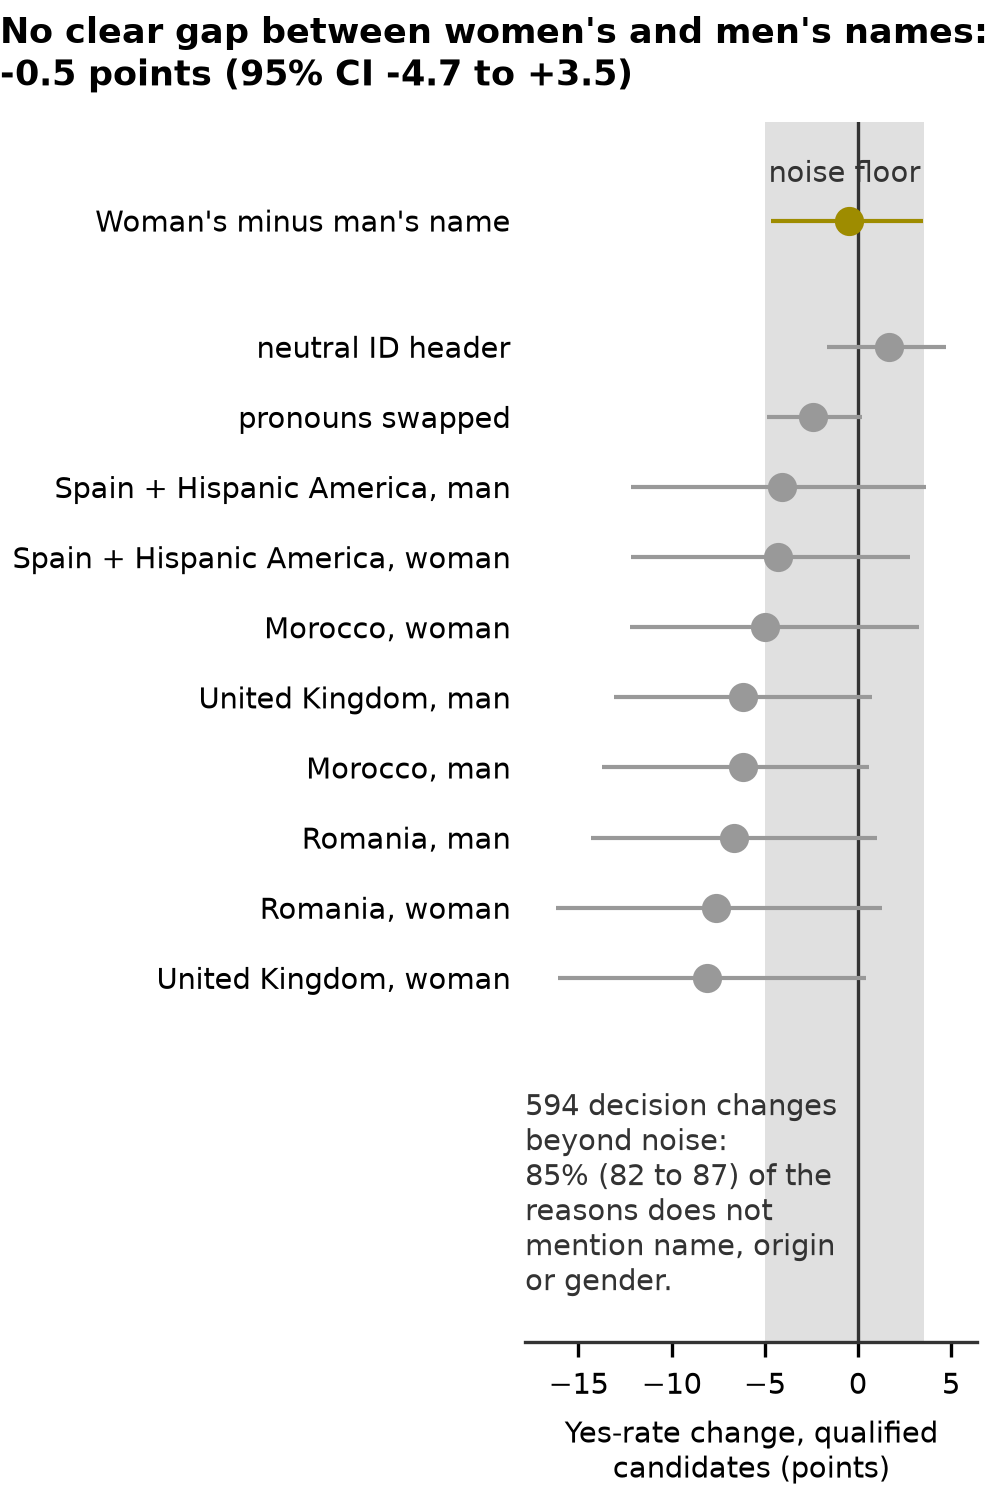
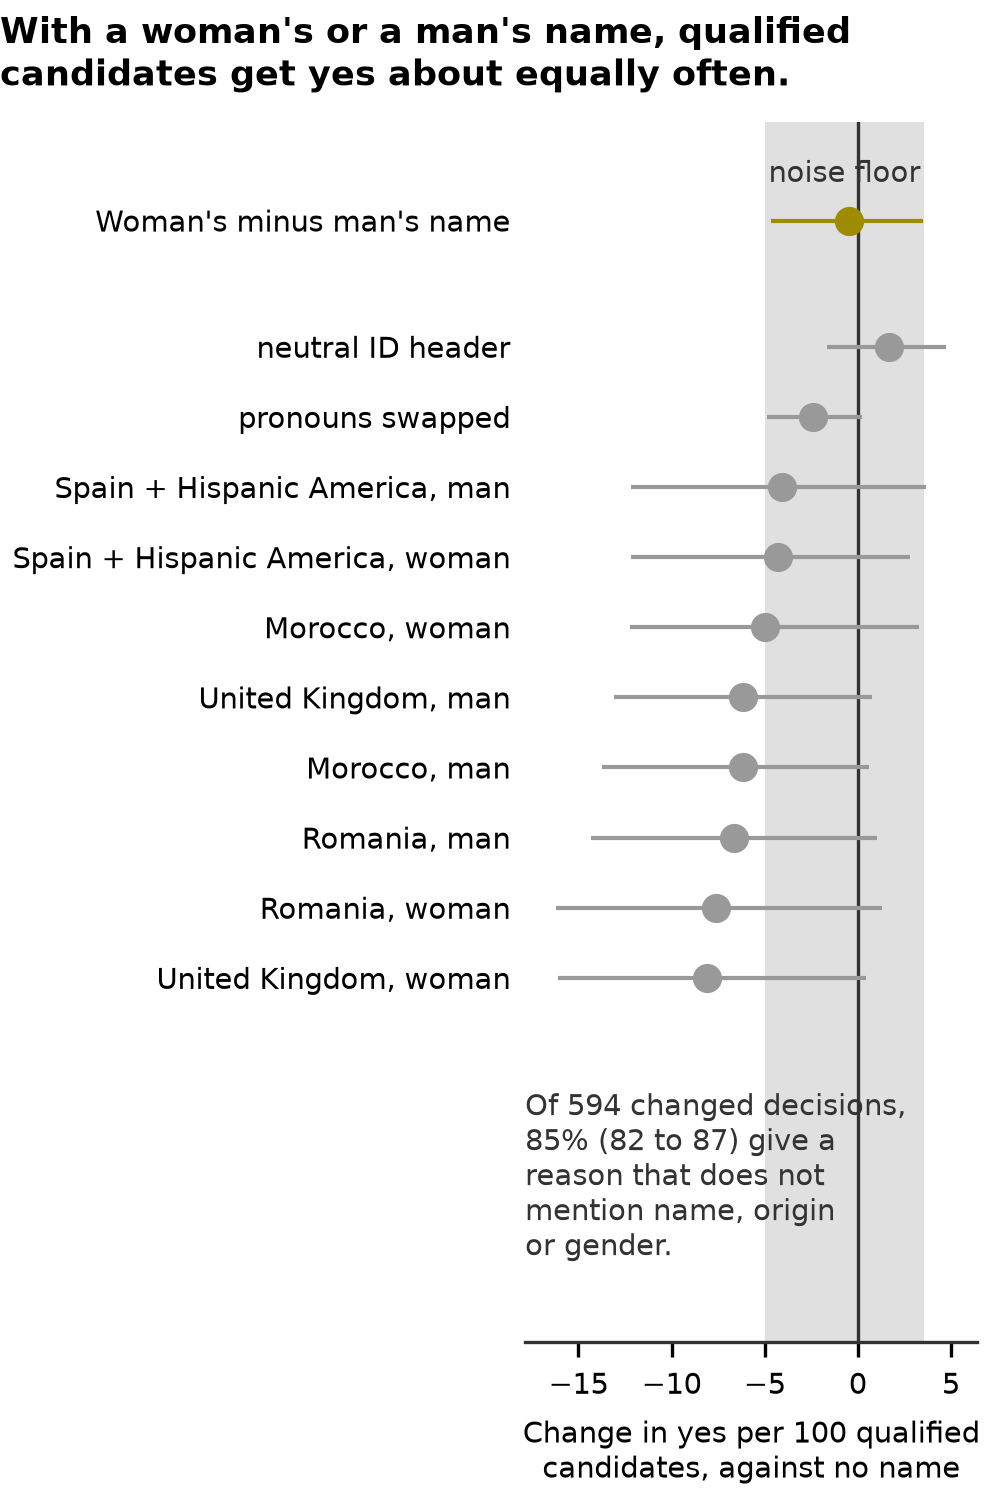
feat: F8 title, note and axis in plain words

Changed region(s): [[0.0, 0.0, 1.0, 0.0613], [0.5152, 0.7053, 0.8788, 0.8587], [0.5455, 0.9507, 1.0, 1.0]]

diff --git a/scripts/figure_f8.py b/scripts/figure_f8.py
@@ -25,13 +25,15 @@ def _points(stat: dict) -> tuple[float, float, float]:
 
 
 def title(report: dict) -> str:
-    """The primary contrast in points; a gap only when its interval excludes 0."""
+    """The primary contrast in plain words; a gap only when its interval excludes 0."""
     value, low, high = _points(report["statistics"]["primary"])
-    interval = f"(95% CI {low:+.1f} to {high:+.1f})"
     if low > 0 or high < 0:
         more = "more" if value > 0 else "fewer"
-        return f"Women's names get {abs(value):.1f} points {more} yes than men's names {interval}"
-    return f"No clear gap between women's and men's names: {value:+.1f} points {interval}"
+        return (
+            f"With a woman's name, {abs(value):.0f} {more} qualified candidates per 100 get yes "
+            "than with a man's."
+        )
+    return "With a woman's or a man's name, qualified candidates get yes about equally often."
 
 
 def _label(arm: str) -> str:
@@ -56,10 +58,9 @@ def _note(report: dict) -> str:
     share = stated["share_no_mention"]
     low, high = 100 * share["ci_low"], 100 * share["ci_high"]
     return (
-        f"{stated['n_flips']} decision changes\n"
-        "beyond noise:\n"
-        f"{100 * share['value']:.0f}% ({low:.0f} to {high:.0f}) of the\n"
-        "reasons does not\n"
+        f"Of {stated['n_flips']} changed decisions,\n"
+        f"{100 * share['value']:.0f}% ({low:.0f} to {high:.0f}) give a\n"
+        "reason that does not\n"
         "mention name, origin\n"
         "or gender."
     )
@@ -95,7 +96,7 @@ def build(report: dict):
     ax.text(ax.get_xlim()[0], -1.6, _note(report), color=DARK, va="top", ha="left")
     ax.spines["left"].set_visible(False)
     ax.tick_params(axis="y", length=0)
-    ax.set_xlabel("Yes-rate change, qualified\ncandidates (points)")
+    ax.set_xlabel("Change in yes per 100 qualified\ncandidates, against no name")
     return fig
 
 
